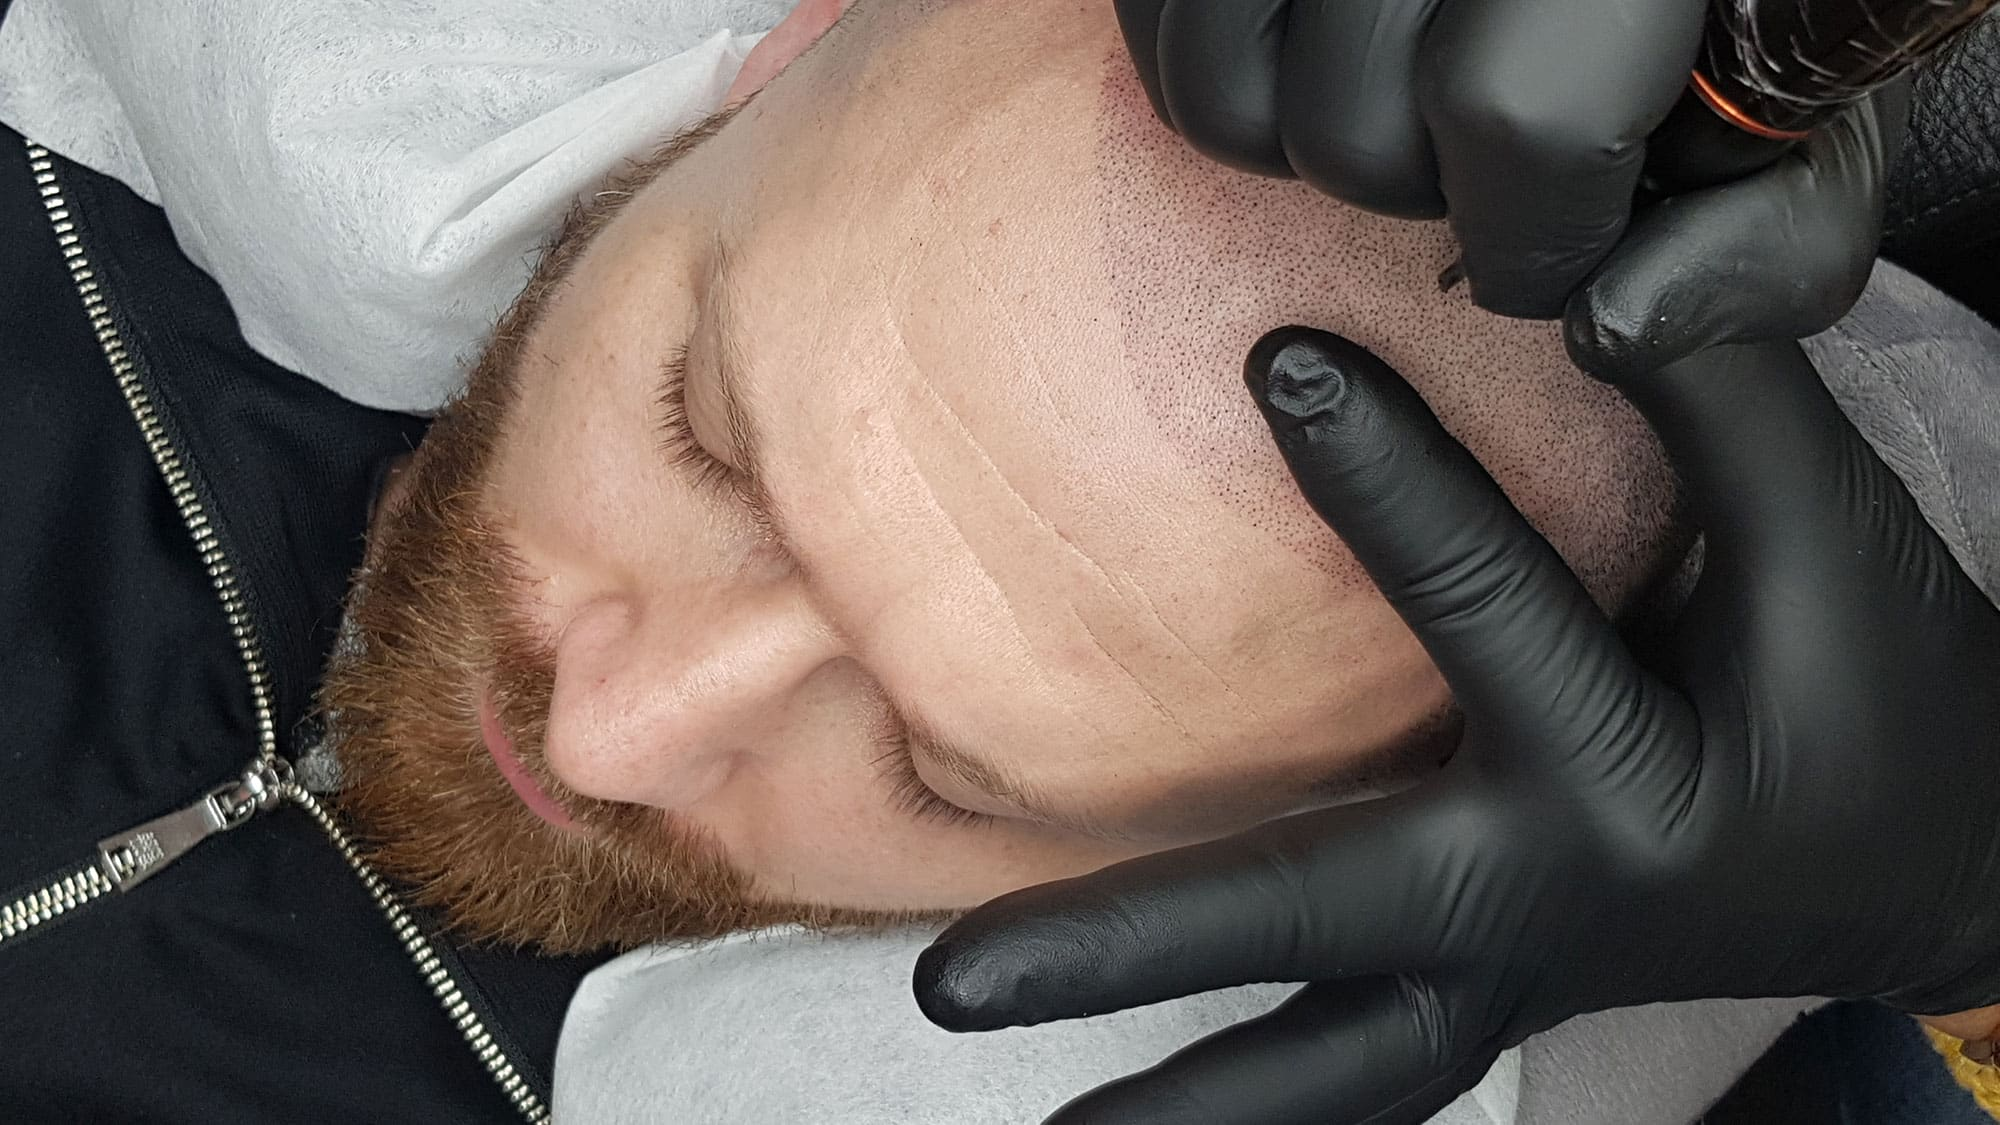
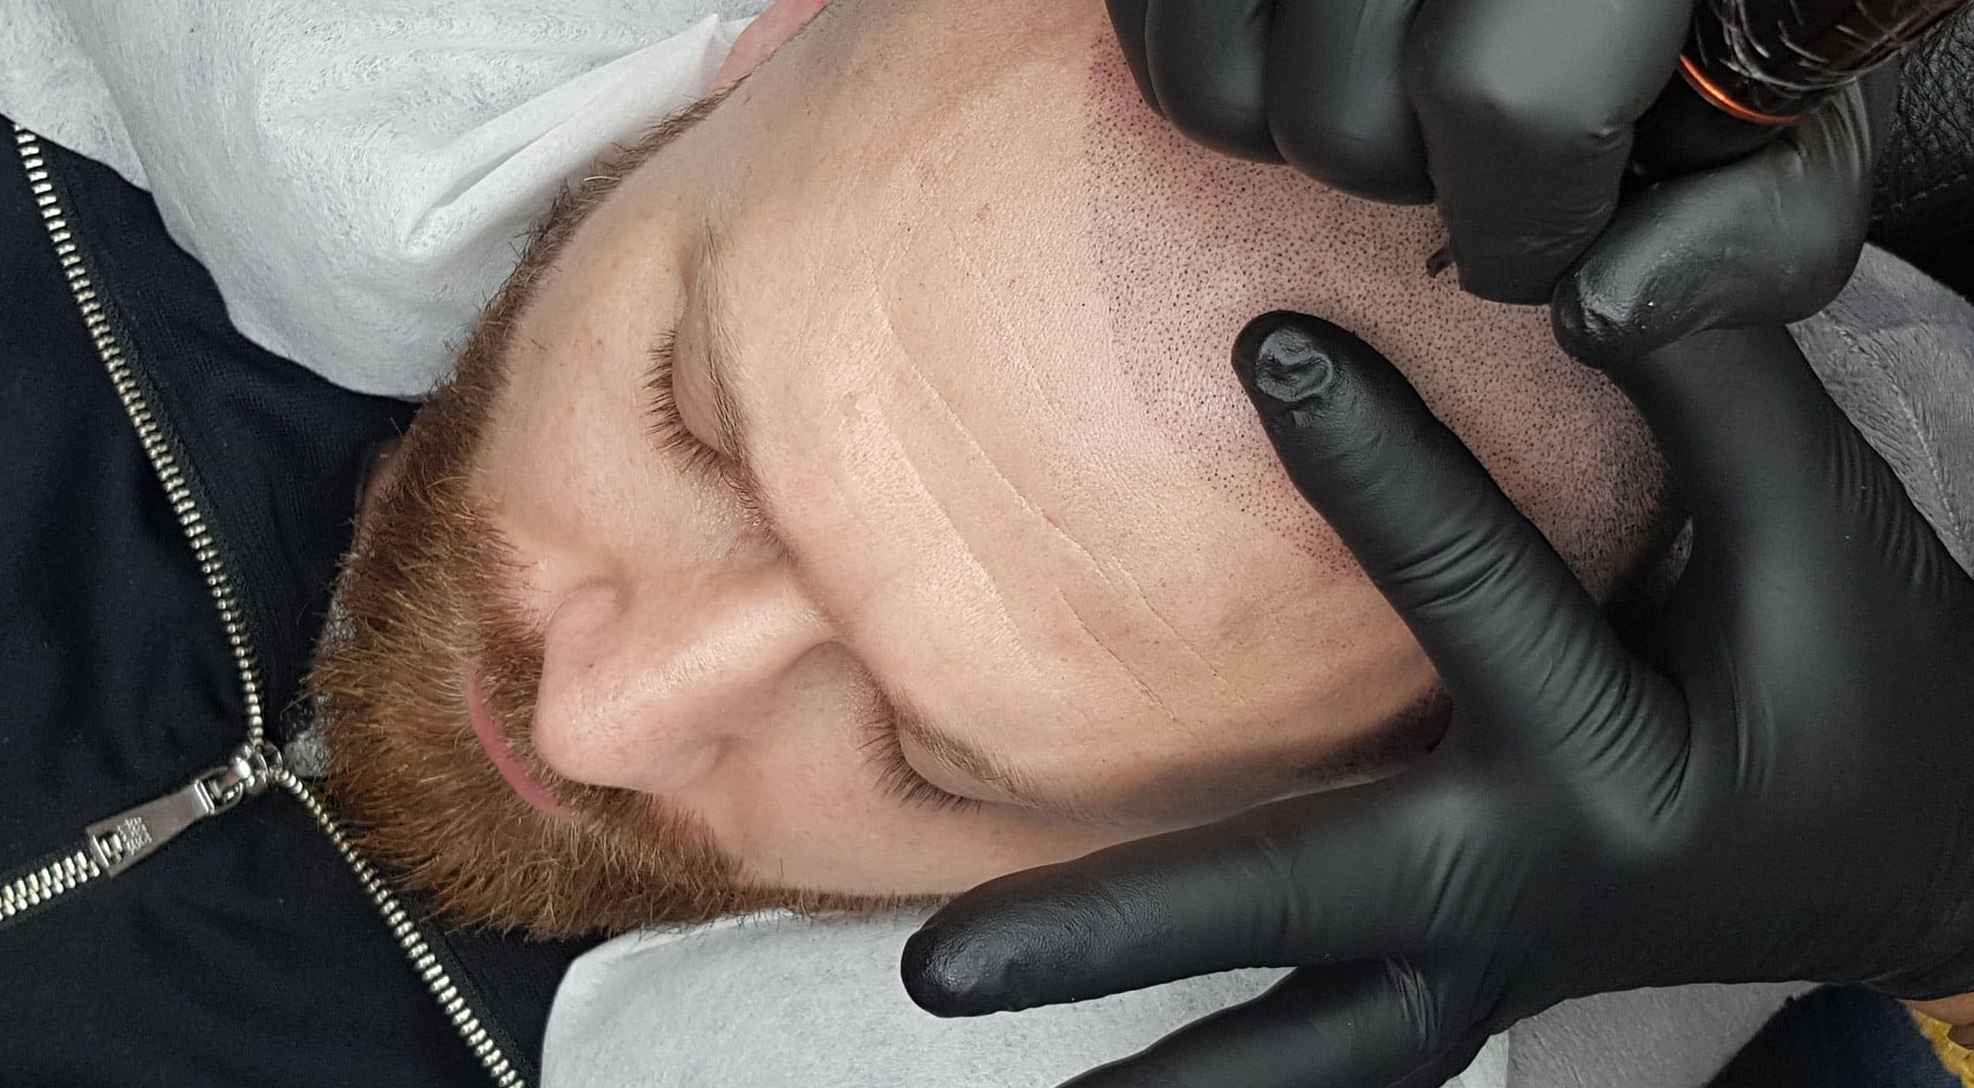
adding about and images

diff --git a/assets/css/style.css b/assets/css/style.css
@@ -61,8 +61,8 @@ a {
 }
 
 /*BACKGROUNDS*/
-.background{
-  padding-block: 3rem;
+.background {
+  padding-block: 5rem;
 }
 
 .one {
@@ -75,6 +75,10 @@ a {
 }
 .three {
   background-color: var(--background-white);
+}
+
+.four {
+  background-color: var(--background-gray);
 }
 /*HOME*/
 
@@ -123,6 +127,7 @@ a {
 #home img {
   margin-inline: auto;
   user-select: none;
+  object-position: 0px 0px;
 }
 
 .stat {
@@ -180,6 +185,8 @@ a {
   margin-inline: auto;
   color: var(--paragraph);
   margin-bottom: 3rem;
+  line-height: 150% ;
+
 }
 
 .card .saibaMais {
@@ -211,17 +218,17 @@ a {
 }
 
 .feedback {
-  width: 32rem;
+  width: 100%;
   display: flex;
   justify-content: center;
   flex-direction: column;
   align-items: center;
   padding-inline: 2rem;
   padding-top: 2rem;
-  border-radius: 0.6rem;
-  border-top: 10px solid var(--blueGet);
+  border-radius: 0.8rem;
+  border-top: 15px solid var(--blueGet);
   box-shadow: 0px 0px 20px 0px rgb(223, 223, 223);
-  line-height: 2.5rem;
+  line-height: 150% ;
   color: var(--paragraph);
 }
 
@@ -238,4 +245,20 @@ a {
 .estrela img {
   object-position: 0px -20px;
   width: 8rem;
+}
+
+/*SOBRE*/
+
+#about .content {
+  display: flex;
+  flex-direction: column;
+  gap: 4rem;
+}
+
+#about .content p {
+  line-height: 150% ;
+}
+
+#about img {
+  border-radius: 0.8rem;
 }

diff --git a/index.html b/index.html
@@ -56,7 +56,7 @@
         </div>
 
         <div class="col-b">
-          <img src="./assets/images/thiago-sem-fundo-1-min-1024x787.png" alt="homem" />
+          <img src="./assets/images/micropigmentação-capilar.png" alt="homem" />
         </div>
       </div>
       <div class="stat">
@@ -192,7 +192,7 @@
       <div class="wrapper">
         <header>
           <h4>Sobre</h4>
-          <h2>O QUE É A MICROPIGMENTAÇÃO CAPILAR?</h2>
+          <h2>O que é a micropigmentação capilar?</h2>
         </header>
 
         <div class="content">
@@ -214,8 +214,8 @@
     <div class="background five">
       <div class="wrapper">
         <header>
-          <h4></h4>
-          <h2></h2>
+          <h4>localização</h4>
+          <h2>Onde nós encontramos.</h2>
         </header>
 
         <div class="content">
